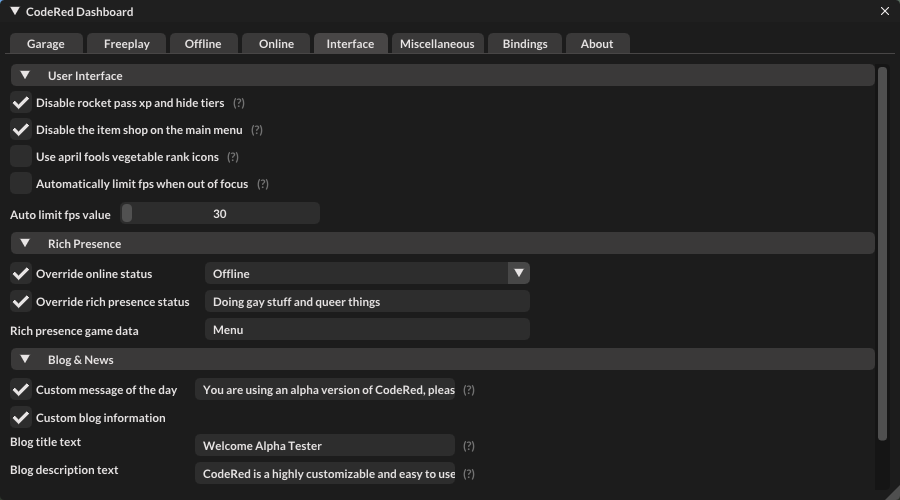
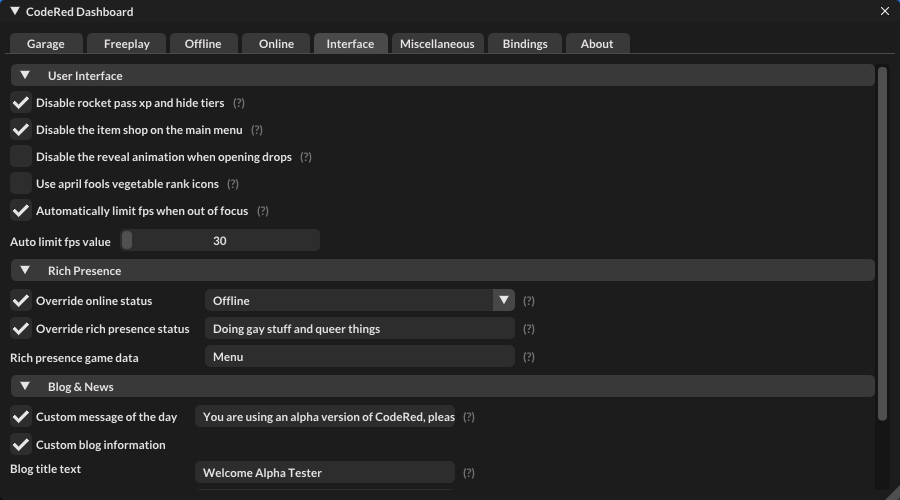
Initial Commit

diff --git a/documentation.html b/documentation.html
@@ -92,7 +92,7 @@
 				    <li class="nav-item"><a class="nav-link scrollto" href="#item-6-3">Custom Titles</a></li>
                     <li class="nav-item"><a class="nav-link scrollto" href="#item-6-4">Bug Reporting</li>
 				    <li class="nav-item section-title mt-3"><a class="nav-link scrollto" href="#section-7"><span class="theme-icon-holder me-2"><i class="fas fa-book"></i></span>Changelog</a></li>
-				    <li class="nav-item"><a class="nav-link scrollto" href="#item-7-1">Version 1.1.6</a></li>
+				    <li class="nav-item"><a class="nav-link scrollto" href="#item-7-1">Version 1.1.8</a></li>
 			    </ul>
 		    </nav>
 	    </div>
@@ -1653,6 +1653,18 @@
 					    <h1 class="docs-heading">Changelog</h1>
 				    </header>
 				     <section class="docs-section" id="item-7-1">
+                        <h2 class="section-heading">Version 1.1.8 (January 5th 2023)</h2>
+                        <h5>- Added a new setting <code>interface_disable_roulette</code>, which automatically skips the reveal animation when opening item drops.</h5>
+                        <h5>- Added additional safety and range checks for the car and ball rotation/location commands.</h5>
+                        <h5>- Fixed the anonymizers \"hide your ranks on the main menu\" setting not working properly.</h5>
+                        <h5>- Fixed the anonymizers \"hide your season rewards\" setting not restoring if you toggled it on and off.</h5>
+                        <h5>- Fixed some ImGui tooltip issues in the dashboard window.</h5>
+
+                        <h2 class="section-heading">Version 1.1.7 (January 3rd 2023)</h2>
+                        <h5>- The tracker and gamestate overlays now have the option to change their position, hold down ctrl and double click on them for options.</h5>
+                        <h5>- Fixed an mmr rounding bug on the main menu when your skill updated.</h5>
+                        <h5>- Fixed some rendering issues when alt-tabbing if you were in fullscreen mode. </h5>
+
                         <h2 class="section-heading">Version 1.1.6 (January 2nd 2023)</h2>
                         <h5>- Added all individual colors from the "DuoTone" terminal themes to the style color picker.</h5>
                         <h5>- Changed the custom DuoTone terminal themes from the last update slightly to make text easier to read.</h5>
